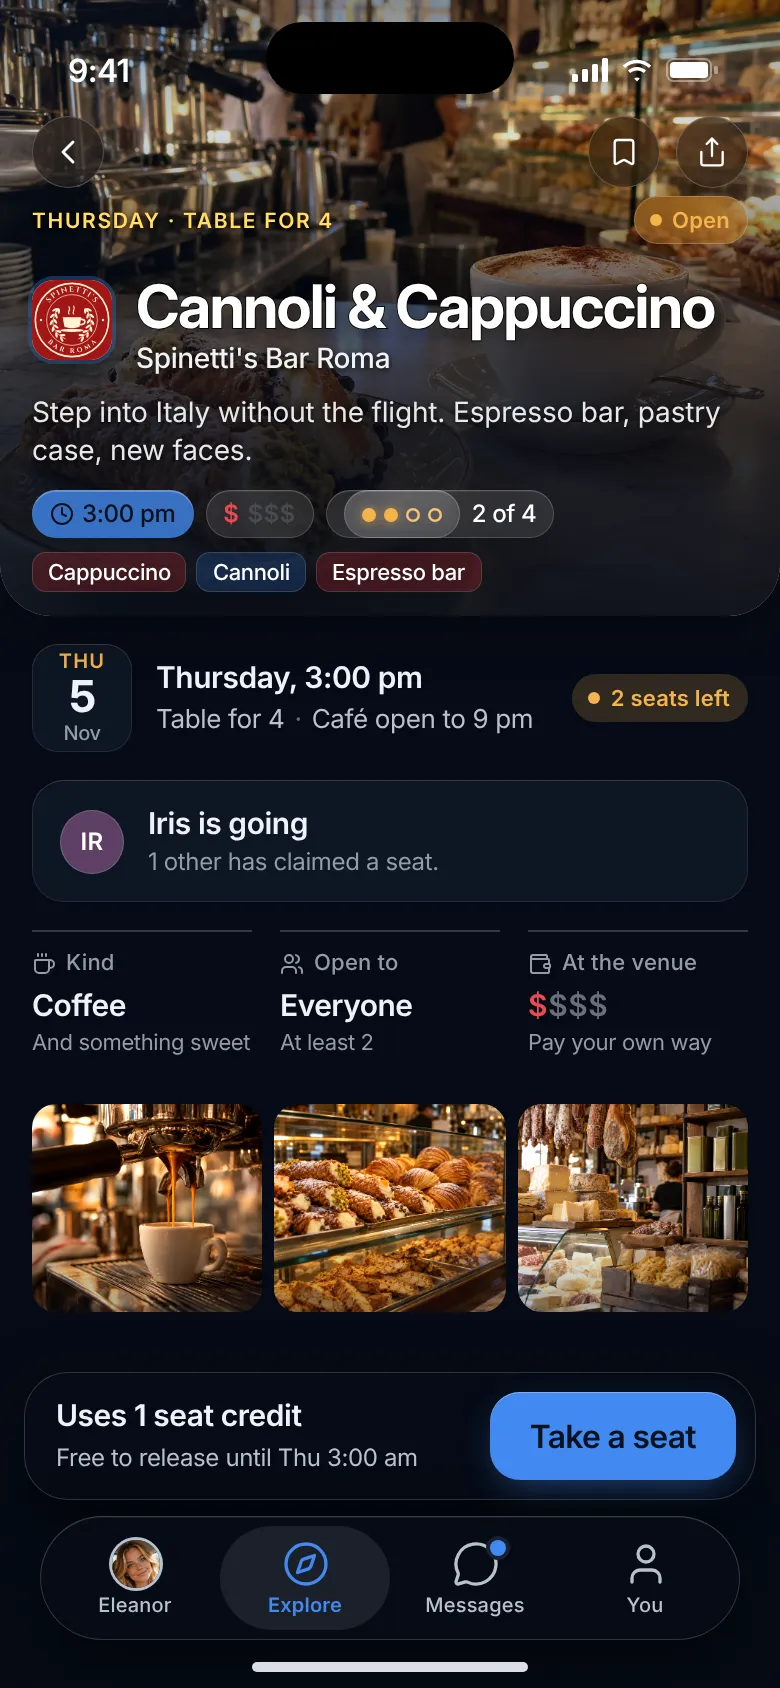
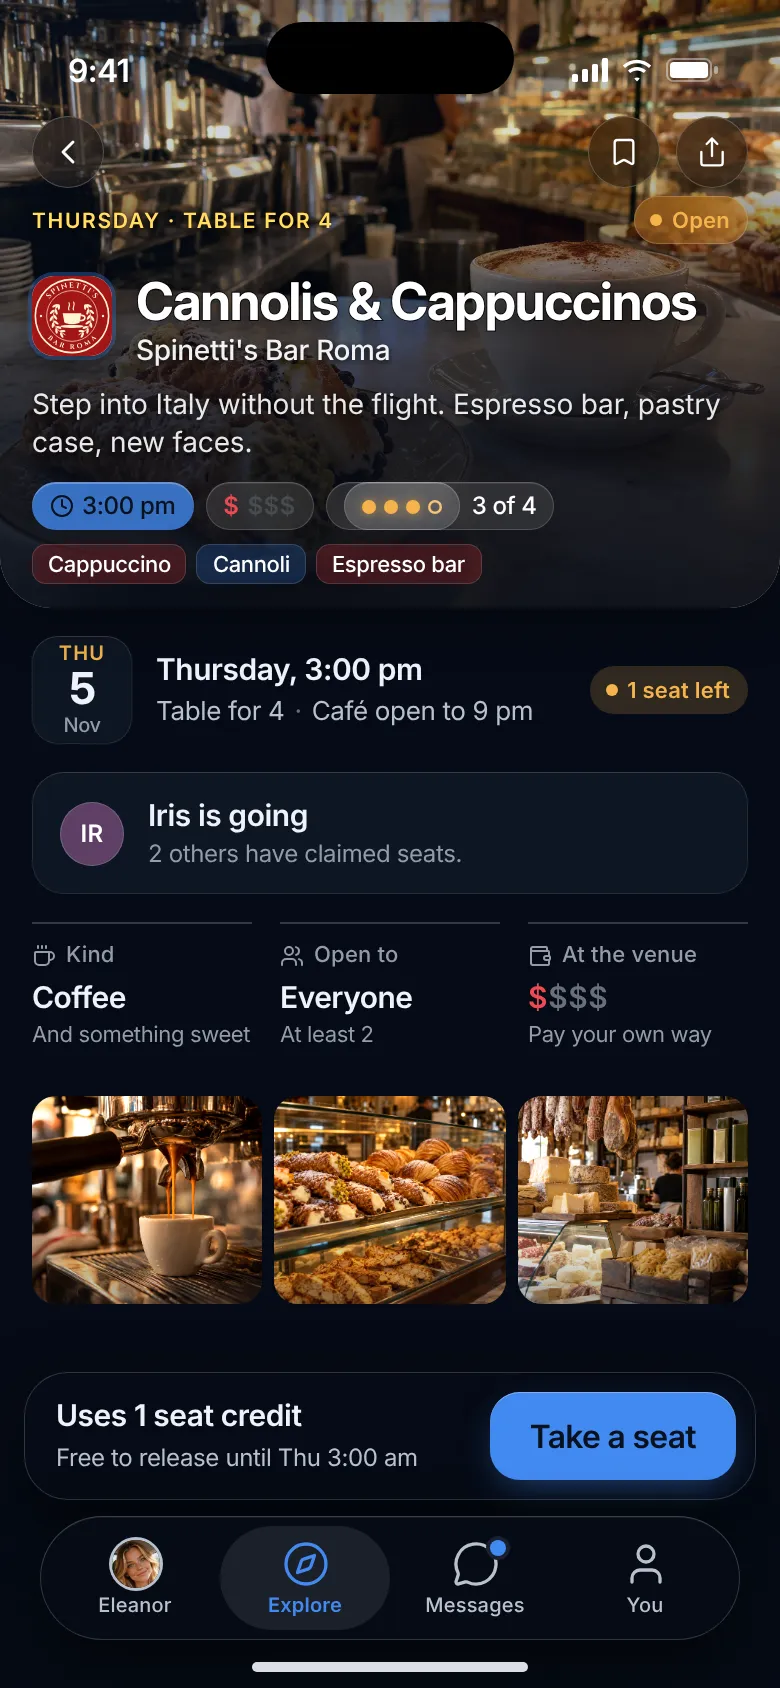
Lander: Spinetti's front and centre

diff --git a/index.html b/index.html
@@ -14,7 +14,7 @@
 <meta property="og:url" content="https://openseat.ca/">
 <meta property="og:title" content="OpenSeat | Meet new people at a table">
 <meta property="og:description" content="Good places. New faces. An app for meeting new people over food and drinks at real places.">
-<meta property="og:image" content="https://openseat.ca/assets/og-v3.jpg">
+<meta property="og:image" content="https://openseat.ca/assets/og-v4.jpg">
 <meta property="og:image:width" content="1200">
 <meta property="og:image:height" content="630">
 <meta name="twitter:card" content="summary_large_image">
@@ -87,8 +87,8 @@
     </div>
     <div class="hero-stage load" data-d="3">
       <picture>
-        <source media="(max-width: 700px)" srcset="assets/renders/hero-m-1200-v3.webp" width="1200" height="1040">
-        <img class="hero-photo" src="assets/renders/hero-1200-v3.webp" srcset="assets/renders/hero-1200-v3.webp 1200w, assets/renders/hero-2400-v3.webp 2400w" sizes="(max-width: 1320px) 100vw, 1280px" width="1200" height="558" fetchpriority="high" alt="Three OpenSeat screens: Explore, Home with Eleanor, and Lattes at the Lift at Finch Coffee &amp; Social. Your seat at Pizza Rob&#39;s lifts off Home, and the Take a seat bar floats beside the event.">
+        <source media="(max-width: 700px)" srcset="assets/renders/hero-m-1200-v4.webp" width="1200" height="1040">
+        <img class="hero-photo" src="assets/renders/hero-1200-v4.webp" srcset="assets/renders/hero-1200-v4.webp 1200w, assets/renders/hero-2400-v4.webp 2400w" sizes="(max-width: 1320px) 100vw, 1280px" width="1200" height="558" fetchpriority="high" alt="Three OpenSeat screens: Explore, Home with Eleanor, and Steak &amp; Eggs, Over Easy at Bluebird Truck Stop Diner. Cannolis &amp; Cappuccinos at Spinetti&#39;s Bar Roma lifts out front and centre, and Bluebird&#39;s Take a seat bar floats beside its event.">
       </picture>
     </div>
   </div>
@@ -124,7 +124,7 @@
         <p class="beat strong reveal">Either way, you win.</p>
     </div>
     <figure class="phone how-phone reveal">
-      <img src="assets/screens/claim-v3.webp" width="780" height="1688" loading="lazy" alt="The Take a seat sheet for Lattes at the Lift at Finch Coffee &amp; Social: one seat credit, free to release until the cutoff, after that the credit is spent.">
+      <img src="assets/screens/claim-v4.webp" width="780" height="1688" loading="lazy" alt="The Take a seat sheet for Cannolis &amp; Cappuccinos at Spinetti&#39;s Bar Roma: one seat credit, free to release until the cutoff, after that the credit is spent.">
     </figure>
   </div>
 </section>
@@ -132,7 +132,7 @@
 <!-- Tuesday -->
 <section class="story" aria-labelledby="story-title">
   <div class="wrap story-grid">
-    <img class="story-photo reveal" src="assets/renders/story-560-v3.webp" srcset="assets/renders/story-560-v3.webp 560w, assets/renders/story-1120-v3.webp 1120w" sizes="(max-width: 1000px) calc(100vw - 40px), 560px" width="560" height="700" loading="lazy" alt="The Sunday Blues Jam at The Blue Kettle with one seat left and its Take a seat bar lifted out, beside your seat at the same table, now six of six.">
+    <img class="story-photo reveal" src="assets/renders/story-560-v4.webp" srcset="assets/renders/story-560-v4.webp 560w, assets/renders/story-1120-v4.webp 1120w" sizes="(max-width: 1000px) calc(100vw - 40px), 560px" width="560" height="700" loading="lazy" alt="Cannolis &amp; Cappuccinos at Spinetti&#39;s Bar Roma, a table for four with one seat left and its Take a seat bar lifted out, beside your seat at the same table, now four of four.">
     <div class="beats">
       <h2 id="story-title" class="h2 caps reveal">TUESDAY DOESN'T HAVE TO SUCK.</h2>
         <p class="beat reveal">Nothing planned tonight?</p>
@@ -170,7 +170,7 @@
 <!-- Your people -->
 <section class="hosts" aria-labelledby="people-title">
   <div class="wrap hosts-grid">
-    <img class="hosts-photo reveal" src="assets/renders/hosts-640-v3.webp" srcset="assets/renders/hosts-640-v3.webp 640w, assets/renders/hosts-1280-v3.webp 1280w" sizes="(max-width: 1000px) calc(100vw - 40px), 640px" width="640" height="512" loading="lazy" alt="The host side of OpenSeat: a ticketed Gnocchi and Chianti event you host at Spinetti&#39;s Bar Roma and the Tribe you run, with the ticket bar lifted out: $50.00, charged by Renée, OpenSeat's fee: $0.">
+    <img class="hosts-photo reveal" src="assets/renders/hosts-640-v4.webp" srcset="assets/renders/hosts-640-v4.webp 640w, assets/renders/hosts-1280-v4.webp 1280w" sizes="(max-width: 1000px) calc(100vw - 40px), 640px" width="640" height="512" loading="lazy" alt="The host side of OpenSeat: a ticketed Gnocchi and Chianti event you host at Spinetti&#39;s Bar Roma and the Tribe you run, with the ticket bar lifted out: $50.00, charged by Renée, OpenSeat's fee: $0.">
     <div class="beats">
       <h2 id="people-title" class="h2 caps reveal">YOUR PEOPLE. YOUR BUSINESS.</h2>
         <p class="beat reveal">Want to host dinners, sell tickets, or build a community?</p>
@@ -214,8 +214,8 @@
 <!-- Close -->
 <section class="close" aria-labelledby="close-title">
   <picture>
-    <source media="(max-width: 700px)" srcset="assets/renders/close-m-900-v3.webp" width="900" height="1280">
-    <img class="close-photo" src="assets/renders/close-1200-v3.webp" srcset="assets/renders/close-1200-v3.webp 1200w, assets/renders/close-2400-v3.webp 2400w" sizes="100vw" width="1200" height="800" loading="lazy" alt="Five OpenSeat screens in dark mode, fanned out: a Tribe, Explore, Home, an event and your seat.">
+    <source media="(max-width: 700px)" srcset="assets/renders/close-m-900-v4.webp" width="900" height="1280">
+    <img class="close-photo" src="assets/renders/close-1200-v4.webp" srcset="assets/renders/close-1200-v4.webp 1200w, assets/renders/close-2400-v4.webp 2400w" sizes="100vw" width="1200" height="800" loading="lazy" alt="Five OpenSeat screens in dark mode, fanned out: Explore, Home, Cannolis &amp; Cappuccinos at Spinetti&#39;s Bar Roma, Steak &amp; Eggs, Over Easy at Bluebird Truck Stop Diner, and a Tribe.">
   </picture>
   <div class="wrap close-inner">
     <h2 id="close-title" class="close-title reveal">THERE'S ALWAYS ROOM FOR ONE MORE.</h2>
@@ -233,7 +233,7 @@
     <div class="how-copy">
       <h2 id="how-title" class="h2 reveal">How it works.</h2>
       <p class="lede reveal">Meet new people over food and drinks at real places.</p>
-      <img class="render reveal" src="assets/renders/how-560-v3.webp" srcset="assets/renders/how-560-v3.webp 560w, assets/renders/how-1120-v3.webp 1120w" sizes="(max-width: 1000px) calc(100vw - 40px), 560px" width="560" height="620" loading="lazy" alt="Three OpenSeat screens: Explore, the Take a seat sheet with one seat credit, and your seat at Finch Coffee &amp; Social.">
+      <img class="render reveal" src="assets/renders/how-560-v4.webp" srcset="assets/renders/how-560-v4.webp 560w, assets/renders/how-1120-v4.webp 1120w" sizes="(max-width: 1000px) calc(100vw - 40px), 560px" width="560" height="620" loading="lazy" alt="Three OpenSeat screens: Explore, the Take a seat sheet with one seat credit, and your seat at Spinetti&#39;s Bar Roma.">
     </div>
     <ol class="steps">
         <li class="reveal">
@@ -270,11 +270,11 @@
   </div>
   <div class="strip-wrap">
     <ul class="strip" aria-label="Kinds of events">
-      <li><img src="assets/renders/day-coffee-380-v3.webp" srcset="assets/renders/day-coffee-380-v3.webp 380w, assets/renders/day-coffee-760-v3.webp 760w" sizes="(max-width: 700px) 72vw, 380px" width="380" height="475" loading="lazy" alt="Lattes at the Lift at Finch Coffee &amp; Social, Saturday at 9:00 am: the event, with its card lifted out."><span>Coffee</span></li>
-      <li><img src="assets/renders/day-brunch-380-v3.webp" srcset="assets/renders/day-brunch-380-v3.webp 380w, assets/renders/day-brunch-760-v3.webp 760w" sizes="(max-width: 700px) 72vw, 380px" width="380" height="475" loading="lazy" alt="Steak &amp; Eggs, Over Easy at Bluebird Truck Stop Diner, Sunday at 10:00 am: the event, with its card lifted out."><span>Brunch</span></li>
-      <li><img src="assets/renders/day-cafe-380-v3.webp" srcset="assets/renders/day-cafe-380-v3.webp 380w, assets/renders/day-cafe-760-v3.webp 760w" sizes="(max-width: 700px) 72vw, 380px" width="380" height="475" loading="lazy" alt="Cannoli &amp; Cappuccino at Spinetti&#39;s Bar Roma, Thursday at 3:00 pm: the event, with its card lifted out."><span>Café</span></li>
-      <li><img src="assets/renders/day-dinner-380-v3.webp" srcset="assets/renders/day-dinner-380-v3.webp 380w, assets/renders/day-dinner-760-v3.webp 760w" sizes="(max-width: 700px) 72vw, 380px" width="380" height="475" loading="lazy" alt="Thin Crust &amp; Live Jazz at Pizza Rob&#39;s, Friday at 6:00 pm: the event, with its card lifted out."><span>Dinner</span></li>
-      <li><img src="assets/renders/day-late-380-v3.webp" srcset="assets/renders/day-late-380-v3.webp 380w, assets/renders/day-late-760-v3.webp 760w" sizes="(max-width: 700px) 72vw, 380px" width="380" height="475" loading="lazy" alt="Your seat at the Sunday Blues Jam at The Blue Kettle, 8:00 pm to midnight, with its card lifted out."><span>Late</span></li>
+      <li><img src="assets/renders/day-cafe-380-v4.webp" srcset="assets/renders/day-cafe-380-v4.webp 380w, assets/renders/day-cafe-760-v4.webp 760w" sizes="(max-width: 700px) 72vw, 380px" width="380" height="475" loading="lazy" alt="Cannolis &amp; Cappuccinos at Spinetti&#39;s Bar Roma, Thursday at 3:00 pm: the event, with its card lifted out."><span>Café</span></li>
+      <li><img src="assets/renders/day-brunch-380-v4.webp" srcset="assets/renders/day-brunch-380-v4.webp 380w, assets/renders/day-brunch-760-v4.webp 760w" sizes="(max-width: 700px) 72vw, 380px" width="380" height="475" loading="lazy" alt="Steak &amp; Eggs, Over Easy at Bluebird Truck Stop Diner, Sunday at 10:00 am: the event, with its card lifted out."><span>Brunch</span></li>
+      <li><img src="assets/renders/day-dinner-380-v4.webp" srcset="assets/renders/day-dinner-380-v4.webp 380w, assets/renders/day-dinner-760-v4.webp 760w" sizes="(max-width: 700px) 72vw, 380px" width="380" height="475" loading="lazy" alt="Thin Crust &amp; Live Jazz at Pizza Rob&#39;s, Friday at 6:00 pm: the event, with its card lifted out."><span>Dinner</span></li>
+      <li><img src="assets/renders/day-coffee-380-v4.webp" srcset="assets/renders/day-coffee-380-v4.webp 380w, assets/renders/day-coffee-760-v4.webp 760w" sizes="(max-width: 700px) 72vw, 380px" width="380" height="475" loading="lazy" alt="Lattes at the Lift at Finch Coffee &amp; Social, Saturday at 9:00 am: the event, with its card lifted out."><span>Coffee</span></li>
+      <li><img src="assets/renders/day-late-380-v4.webp" srcset="assets/renders/day-late-380-v4.webp 380w, assets/renders/day-late-760-v4.webp 760w" sizes="(max-width: 700px) 72vw, 380px" width="380" height="475" loading="lazy" alt="Your seat at the Sunday Blues Jam at The Blue Kettle, 8:00 pm to midnight, with its card lifted out."><span>Late</span></li>
     </ul>
   </div>
 </section>
@@ -284,7 +284,7 @@
 <section class="start" id="start" aria-labelledby="start-title">
   <div class="wrap start-grid">
     <figure class="phone start-phone reveal">
-      <img src="assets/screens/propose-v3.webp" width="780" height="1688" loading="lazy" alt="Proposing an event: lattes and a slow Sunday at Finch Coffee &amp; Social, a time and a table of four.">
+      <img src="assets/screens/propose-v4.webp" width="780" height="1688" loading="lazy" alt="Proposing an event: lattes and a slow Sunday at Finch Coffee &amp; Social, a time and a table of four.">
     </figure>
     <div class="start-copy">
       <h2 id="start-title" class="h2 reveal">Your idea. An open table.</h2>
@@ -322,7 +322,7 @@
   <div class="wrap tt-grid">
     <div>
       <h2 id="tt-title" class="h2 reveal">Tickets and Tribes.</h2>
-      <img class="render reveal" src="assets/renders/tt-600-v3.webp" srcset="assets/renders/tt-600-v3.webp 600w, assets/renders/tt-1200-v3.webp 1200w" sizes="(max-width: 1000px) calc(100vw - 40px), 600px" width="600" height="560" loading="lazy" alt="Gnocchi and Chianti on sale at Spinetti&#39;s Bar Roma and a Tribe's member view, with the Tribe's This week card lifted out.">
+      <img class="render reveal" src="assets/renders/tt-600-v4.webp" srcset="assets/renders/tt-600-v4.webp 600w, assets/renders/tt-1200-v4.webp 1200w" sizes="(max-width: 1000px) calc(100vw - 40px), 600px" width="600" height="560" loading="lazy" alt="Gnocchi and Chianti on sale at Spinetti&#39;s Bar Roma and a Tribe's member view, with the Tribe's This week card lifted out.">
     </div>
       <div class="hosts-items">
         <div class="reveal">
@@ -342,7 +342,7 @@
   <div class="wrap">
     <div class="mem-head">
       <h2 id="mem-title" class="h2 reveal">Browse free. Join for a seat.</h2>
-      <img class="render mem-render reveal" src="assets/renders/member-600-v3.webp" srcset="assets/renders/member-600-v3.webp 600w, assets/renders/member-1200-v3.webp 1200w" sizes="(max-width: 700px) calc(100vw - 40px), 600px" width="600" height="520" loading="lazy" alt="The Take a seat sheet using one seat credit, and the membership card from You: 5 of 8 seat credits and 2 of 3 gift credits left.">
+      <img class="render mem-render reveal" src="assets/renders/member-600-v4.webp" srcset="assets/renders/member-600-v4.webp 600w, assets/renders/member-1200-v4.webp 1200w" sizes="(max-width: 700px) calc(100vw - 40px), 600px" width="600" height="520" loading="lazy" alt="The Take a seat sheet using one seat credit, and the membership card from You: 5 of 8 seat credits and 2 of 3 gift credits left.">
     </div>
     <div class="price-rows">
       <div class="price reveal">
